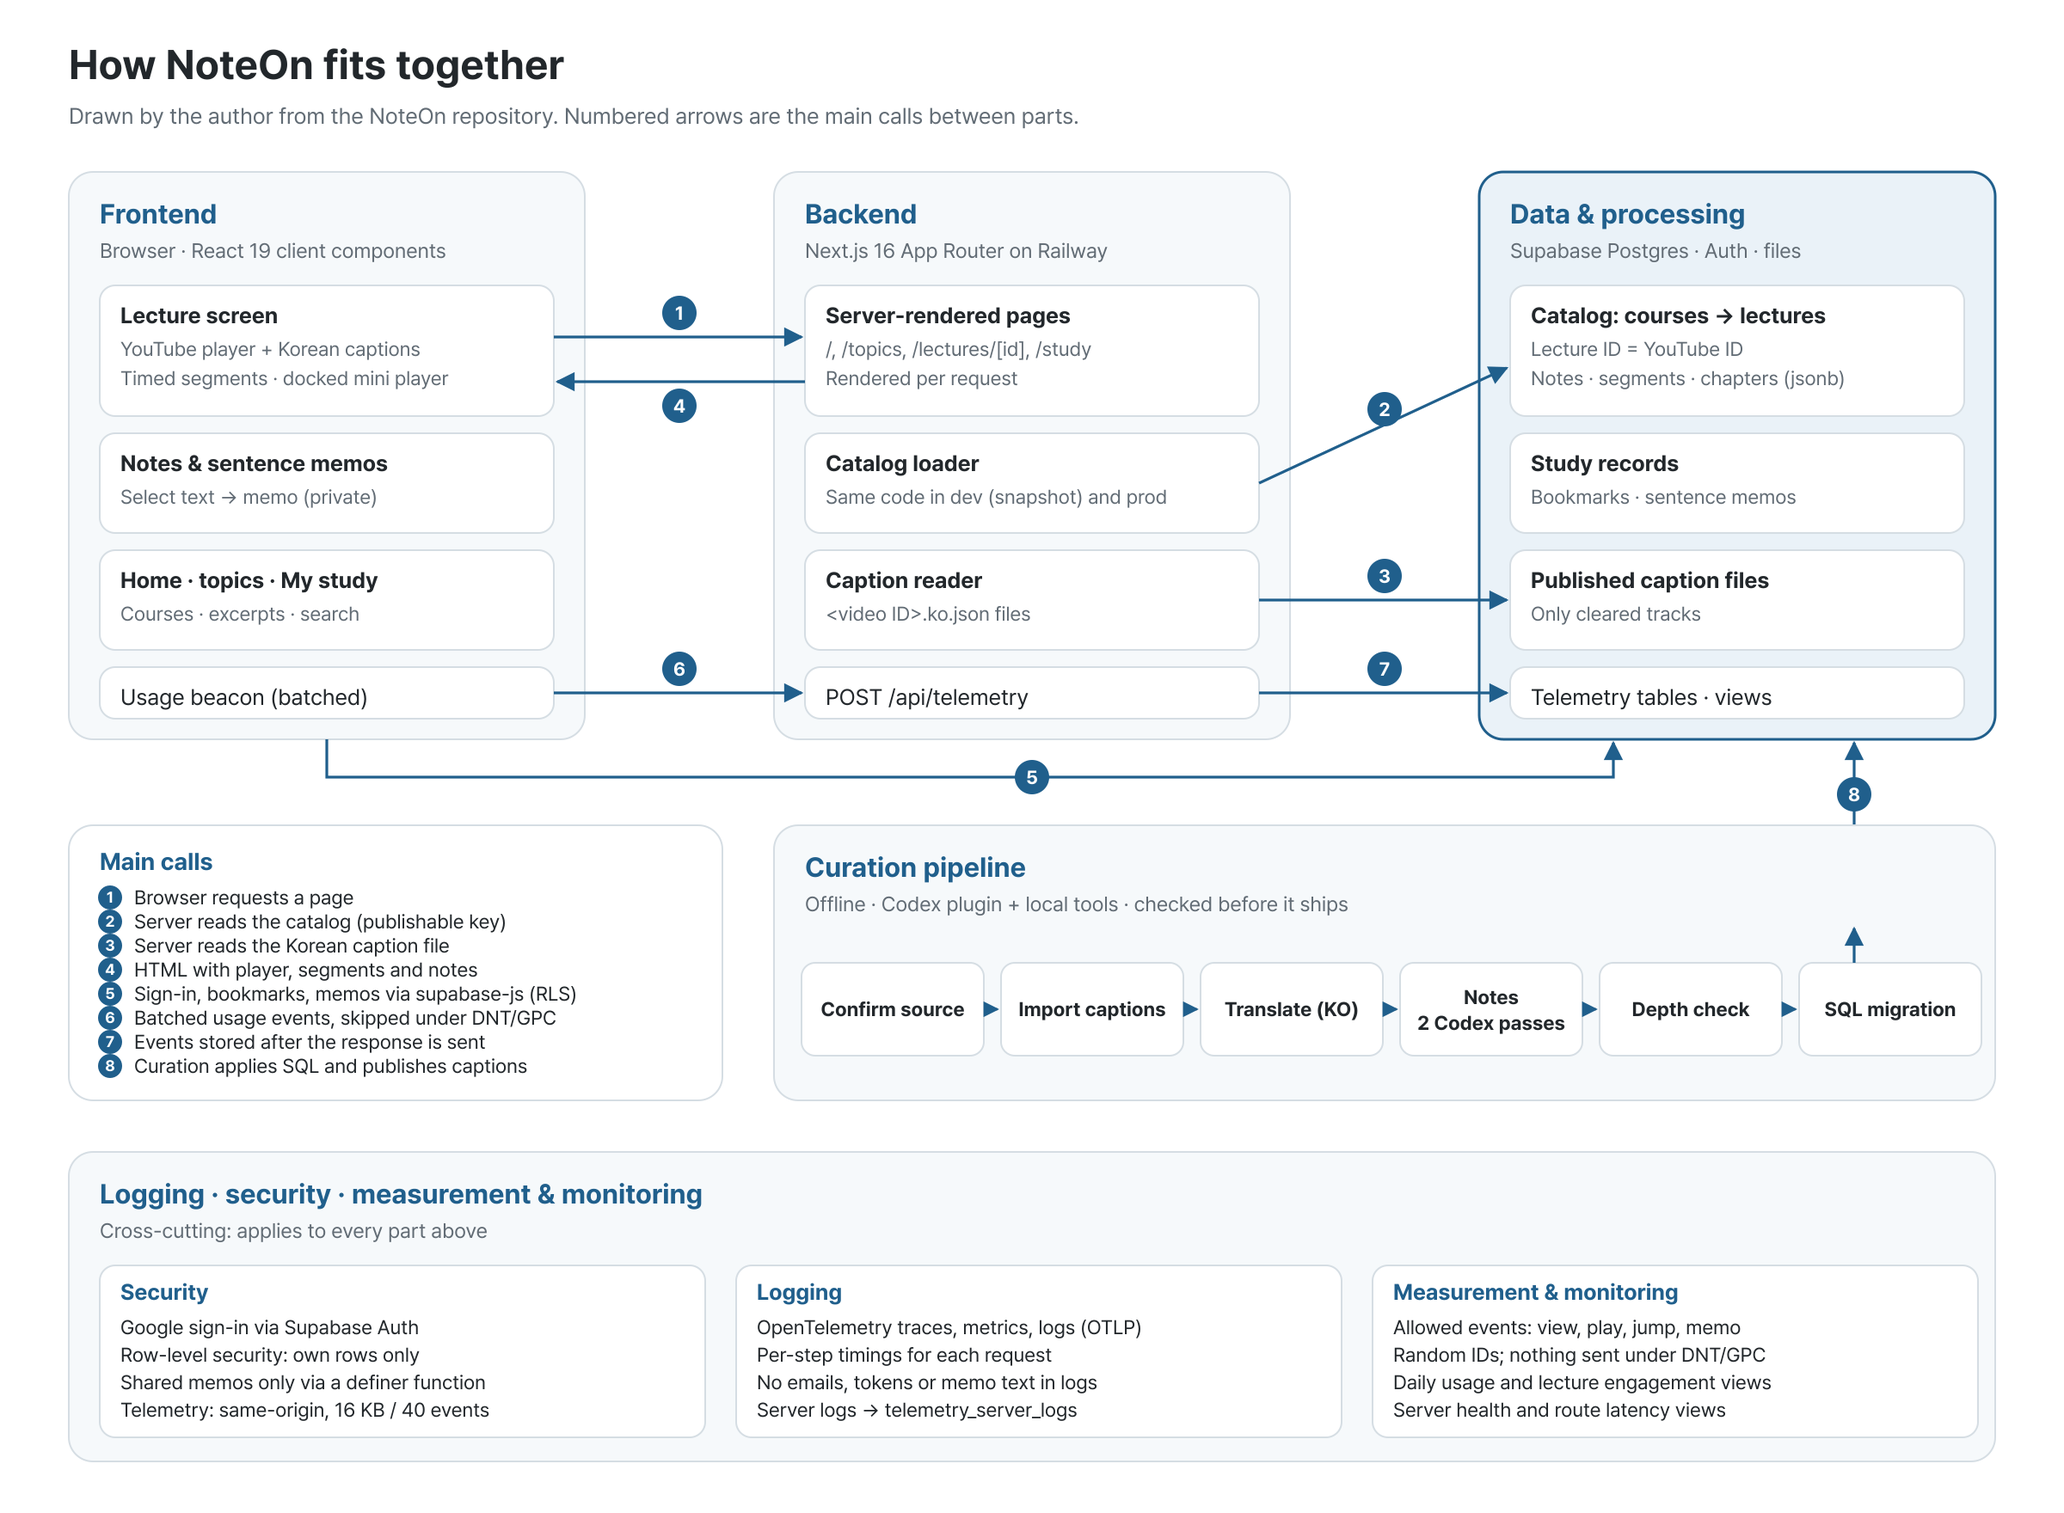
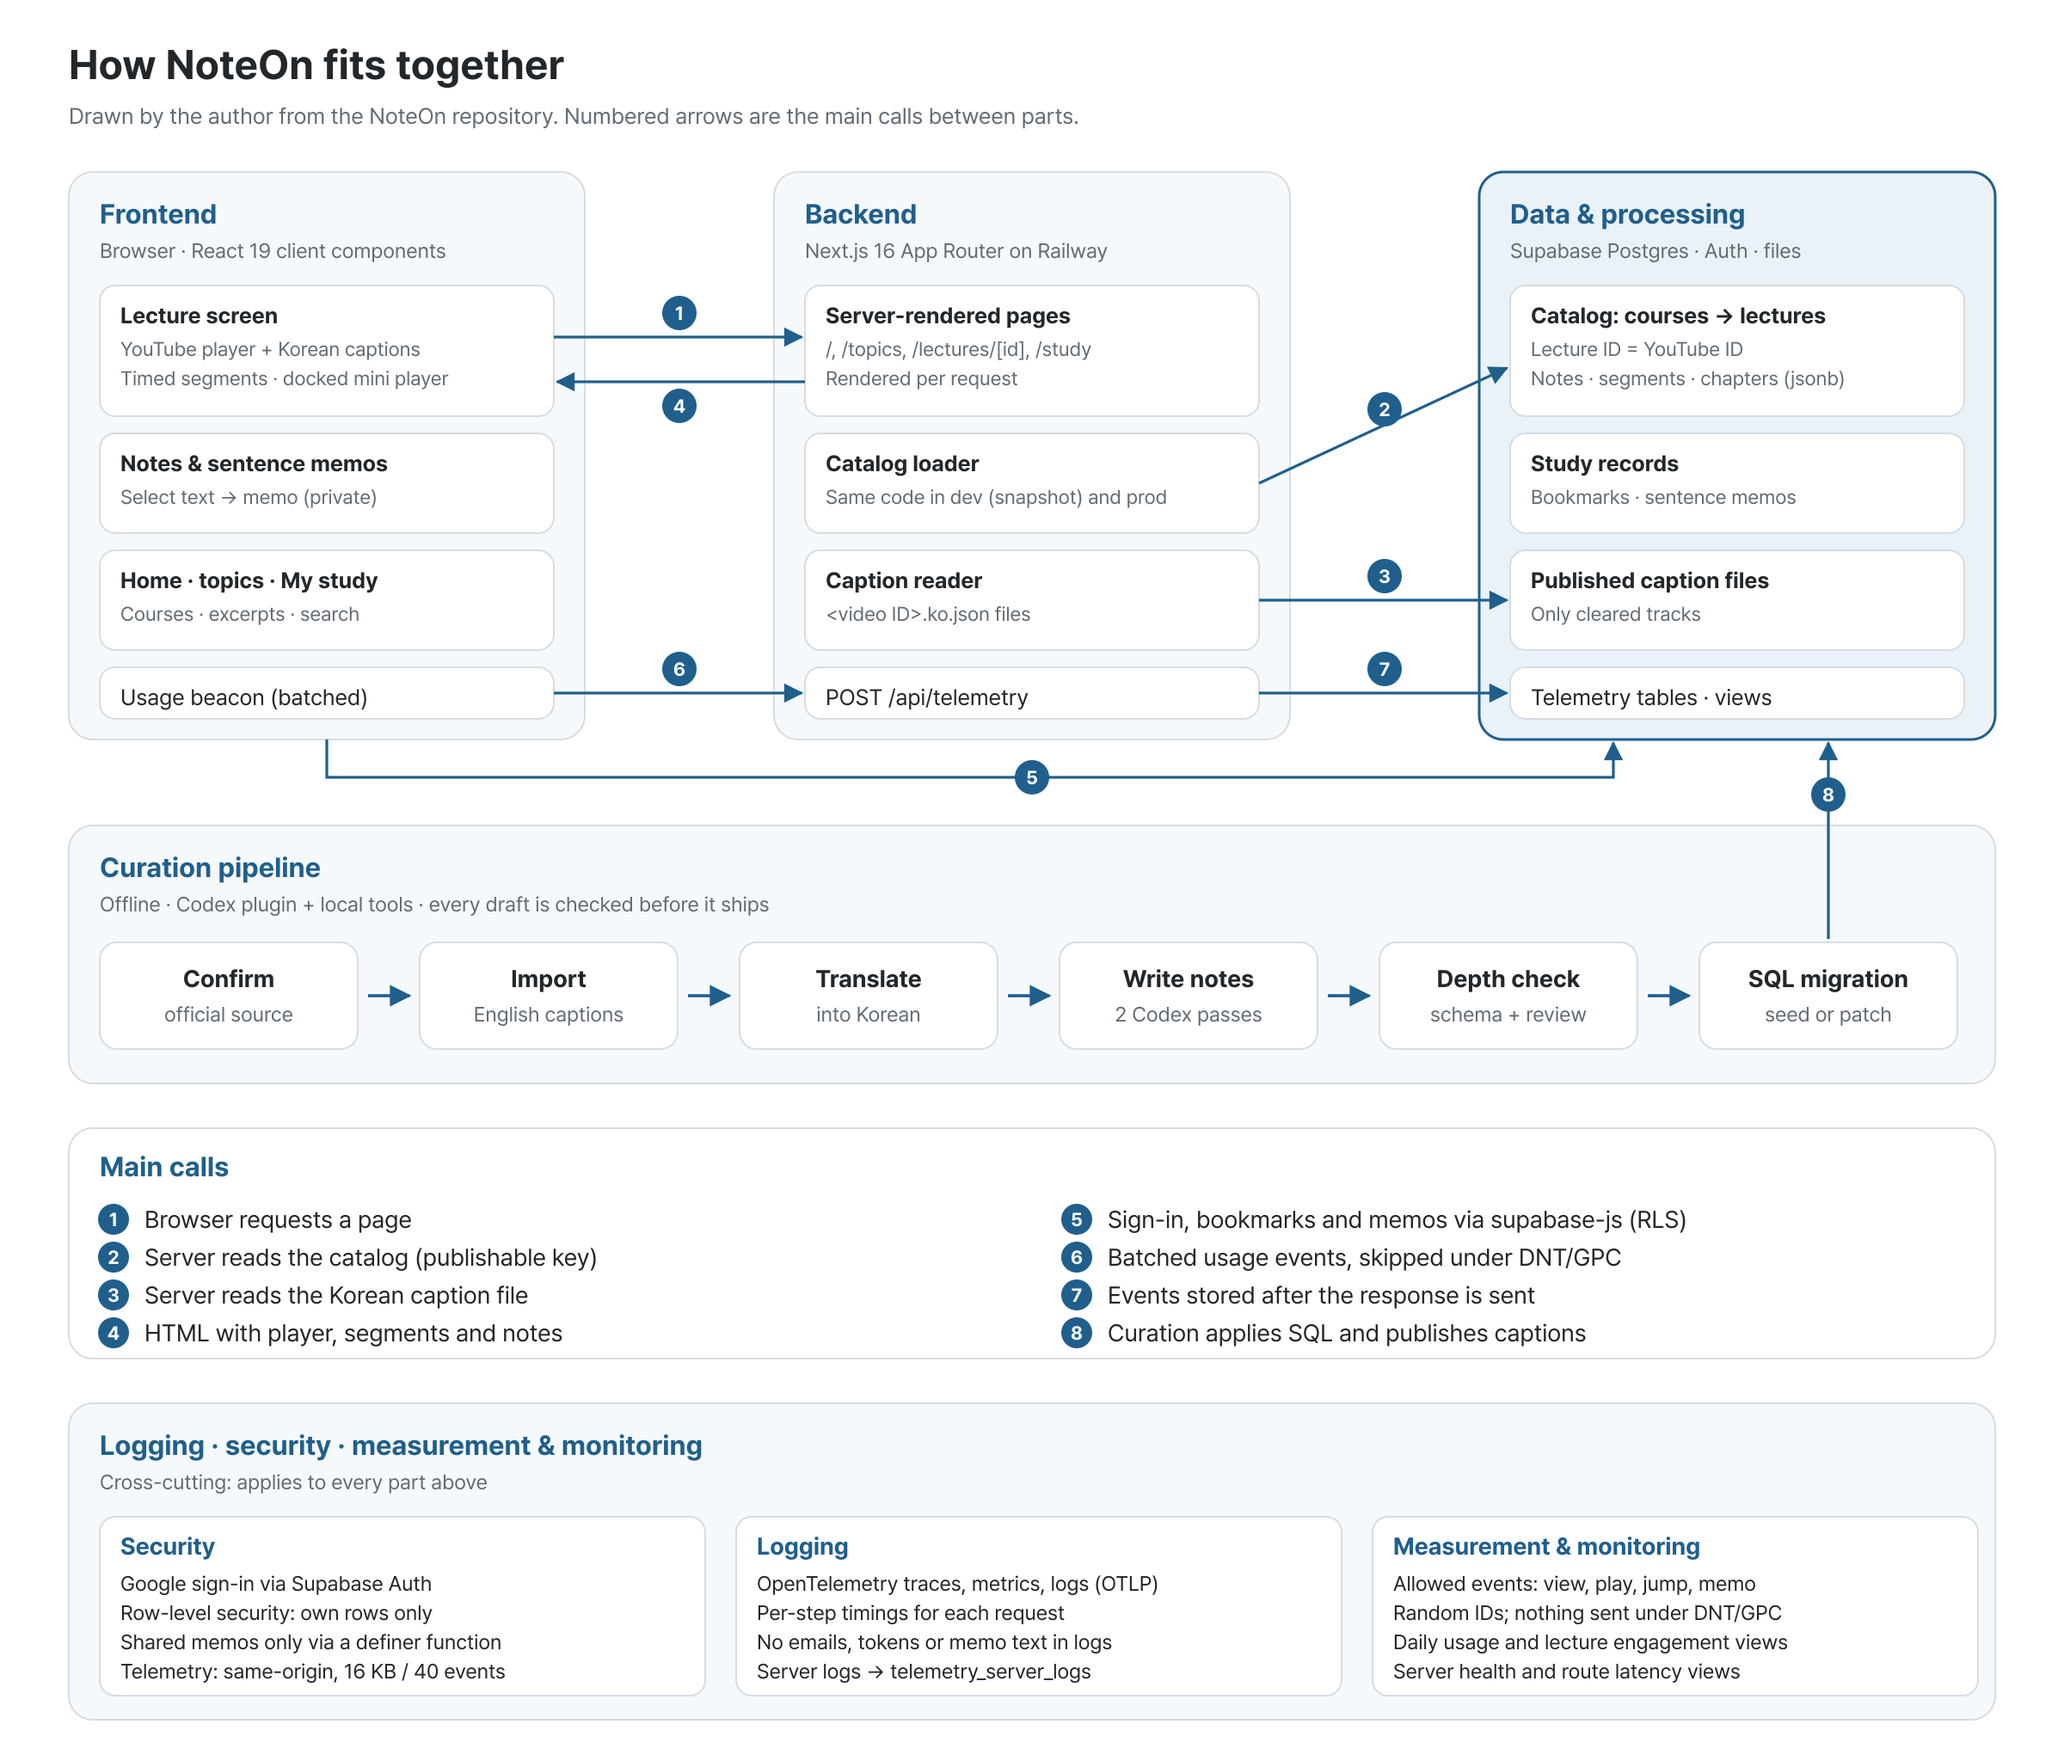
Simplify NoteOn's architecture section and show memos and My study
The architecture section keeps only the functional diagram, now with a
full-width curation pipeline and a readable main-calls row; the bullet
lists and stack tags are gone. Sentence memos and My study get
screenshots of the live service with account details and owner-only
features cropped out, and AGENTS.md allows such owner-requested
screenshots with provenance in assets/fun/SOURCES.md.

diff --git a/scripts/build.py b/scripts/build.py
@@ -172,7 +172,9 @@ FUN_IMAGES = {
     'home': ('blog/media/noteon-good-lectures-with-notes/home.png', 1492, 2563),
     'lecture': ('blog/media/noteon-good-lectures-with-notes/lecture.png', 1492, 910),
     'notes': ('blog/media/noteon-good-lectures-with-notes/notes.png', 1280, 900),
-    'architecture': ('assets/fun/noteon-architecture.png', 1200, 880),
+    'architecture': ('assets/fun/noteon-architecture.png', 1200, 1024),
+    'memo': ('assets/fun/noteon-memo.png', 880, 550),
+    'study': ('assets/fun/noteon-study.png', 600, 370),
 }
 
 
@@ -234,12 +236,9 @@ def render_fun(data, page):
         shot=f'<figure class="fun-shot">{img(f["image"],f["title"]+" screen")}</figure>' if f.get('image') else ''
         feats.append(f'<article class="fun-feature{" has-shot" if shot else ""}"><div><h3>{esc(f["title"])}</h3><p>{esc(f["text"])}</p></div>{shot}</article>')
     features=f'<section class="section" id="features"><h2>Features</h2>{"".join(feats)}</section>'
-    arch=page['architecture']
-    chips=''.join(f'<li>{esc(s)}</li>' for s in arch['stack'])
-    groups=''.join(f'<div class="fun-layer"><h3>{esc(g["name"])}</h3>{bullets(g["items"])}</div>' for g in arch['groups'])
-    architecture=(f'<section class="section" id="architecture"><h2>Architecture &amp; stack</h2>'
+    architecture=(f'<section class="section" id="architecture"><h2>Architecture</h2>'
                   f'<figure class="fun-shot fun-shot-wide">{img("architecture","How NoteOn fits together: frontend, backend, data and processing, the curation pipeline, and cross-cutting logging, security and monitoring, with the main calls between them")}<figcaption>How the parts connect. Numbered arrows are the main calls.</figcaption></figure>'
-                  f'<div class="fun-layers">{groups}</div><ul class="fun-stack" aria-label="Technology">{chips}</ul></section>')
+                  '</section>')
     rel=''.join(f'<article class="timeline-row"><div class="period">{esc(r["date"])}</div><div>{bullets(r["items"],"career-bullets")}</div></article>' for r in page['releases'])
     releases=f'<section class="section" id="releases"><h2>Recent release notes</h2>{rel}</section>'
     values['body']=hero+nav+why+features+architecture+releases

diff --git a/tests/test_build.py b/tests/test_build.py
@@ -299,7 +299,7 @@ class ForFunTests(unittest.TestCase):
             self.assertTrue(src.startswith('blog/media/') or src.startswith('assets/fun/'),src)
             base=ROOT/'blog/public'/src.removeprefix('blog/') if src.startswith('blog/') else ROOT/src
             self.assertTrue(base.is_file(),src)
-        self.assertEqual({p.name for p in (ROOT/'assets/fun').iterdir()},{'noteon-architecture.png','SOURCES.md'})
+        self.assertEqual({p.name for p in (ROOT/'assets/fun').iterdir()},{'noteon-architecture.png','noteon-memo.png','noteon-study.png','SOURCES.md'})
 
     def test_noteon_page_sections_and_no_question_feature(self):
         html=(ROOT/'dist/projects/fun/noteon/index.html').read_text()

diff --git a/AGENTS.md b/AGENTS.md
@@ -16,4 +16,4 @@ Owner disclosure decision, 2026-11-08: show actual service previews for conversa
 
 Latest disclosure override, 2026-11-08: do not display SK Telecom project artifact screenshots. Only REVIEWRO and Review Topic Analytics representatives remain approved. Remove SKT screenshot files from current public deployment, keep original working material private, and do not reintroduce images without explicit authorization.
 
-For fun exception, 2026-11-28: the owner asked for a "For fun" subcategory on Projects with a landing page per personal side project (what, why, features, architecture/stack, recent release notes). This covers only the owner's own side projects in `content/fun/<id>.json`, rendered at `/projects/fun/<id>/`, each reviewed by the owner before publishing. It does not open detail pages for career/SK Telecom projects; tests still reject every other `projects/<x>/` route. Images must already be public (blog media) or be owner-drawn diagrams in `assets/fun/` with provenance in `assets/fun/SOURCES.md`. Owner-only or allowlisted features (e.g. NoteOn's lecture questions, admin dashboard) are never described.
+For fun exception, 2026-11-28: the owner asked for a "For fun" subcategory on Projects with a landing page per personal side project (what, why, features, architecture/stack, recent release notes). This covers only the owner's own side projects in `content/fun/<id>.json`, rendered at `/projects/fun/<id>/`, each reviewed by the owner before publishing. It does not open detail pages for career/SK Telecom projects; tests still reject every other `projects/<x>/` route. Images must already be public (blog media), be owner-drawn diagrams, or be screenshots of the owner's own service that the owner asked for, with account details and owner-only features cropped out; each lives in `assets/fun/` with provenance in `assets/fun/SOURCES.md`. Owner-only or allowlisted features (e.g. NoteOn's lecture questions, admin dashboard) are never described.

diff --git a/DESIGN.md b/DESIGN.md
@@ -37,5 +37,5 @@ The blog is the same site, not a separate brand. It imports `assets/style.css` (
 ## For fun (/projects/#for-fun, /projects/fun/<id>/)
 
 - Projects splits into "Work" (career summaries, unchanged) and "For fun" (personal side projects). A For fun card shows status, title, one-line summary and an outlined "About <name>" button.
-- Landing page order: breadcrumb → title, tagline, summary, status, blog links → hero screenshot → sticky in-page nav (What, Why, Features, Architecture, Release notes) → Why (problem | motivation, two columns) → Features (text left, screenshot right; text-only when no screen) → Architecture & stack (points, diagram, pill tags) → Recent release notes (date column + bullets, newest first).
+- Landing page order: breadcrumb → title, tagline, summary, status, links (Open <service>, blog) → hero screenshot → sticky in-page nav (Why, Features, Architecture, Release notes) → Why (problem | motivation, two columns) → Features (text left, screenshot right; text-only when no screen) → Architecture (one functional diagram only: frontend, backend, data & processing, pipeline, cross-cutting logging/security/monitoring, numbered main calls; no bullet lists or stack tags) → Recent release notes (date column + bullets, newest first).
 - English UI like the rest of Projects; screenshots crop 16:10 from the top. One column below 700px.

diff --git a/assets/fun/SOURCES.md b/assets/fun/SOURCES.md
@@ -1,3 +1,5 @@
 # For fun assets
 
 - `noteon-architecture.png`: code-layout diagram drawn by the site owner from the NoteOn repository directories (English version of the figure in the blog post "NoteOn의 아키텍쳐"). No private screens.
+- `noteon-memo.png`: screenshot of the live NoteOn lecture page (Terence Tao, "Math 2.0"), taken 2026-11-28 at the owner's request. Shows the memo editor with a sample memo typed for the picture and not saved. Header, account avatar and the owner-only lecture-question button are cropped or hidden.
+- `noteon-study.png`: screenshot of the owner's own NoteOn "내 학습" page, taken 2026-11-28 at the owner's request. Cropped to the bookmarked-lecture list; header, avatar and page subtitle excluded.
